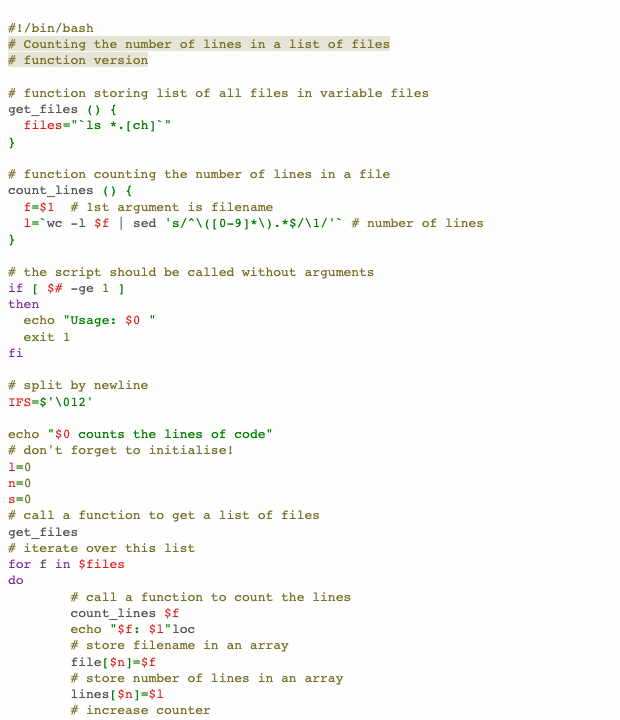
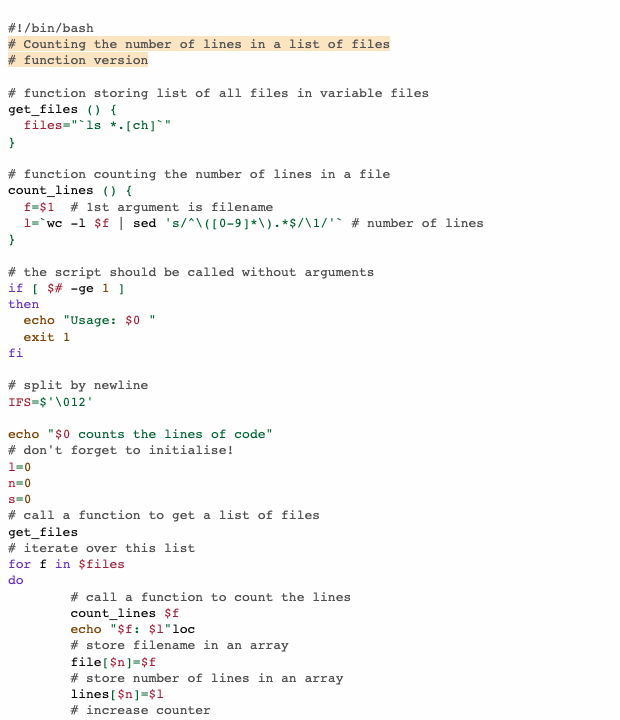
Fix contrast failures for high contrast light theme (#33)
Closes #30.

This PR updates the a11y-light and a11y-high-contrast-light themes. Increasing contrast, and trying to keep both colors similar.

diff --git a/a11y_pygments/a11y_high_contrast_light/style.py b/a11y_pygments/a11y_high_contrast_light/style.py
@@ -16,25 +16,25 @@ from pygments.token import (
 
 
 class Colors:
-    comment = "#797129"
-    red = "#d91e18"
-    orange = "#797129"
-    yellow = "#797129"
-    green = "#008000"
-    blue = "#007faa"
-    purple = "#7928a1"
-    black = "#545454"
+    comment = "#515151"
+    red = "#a12236"
+    orange = "#7f4707"
+    magenta = "#912583"
+    green = "#00622f"
+    blue = "#005b82"
+    purple = "#6730c5"
+    black = "#080808"
 
 
 class Theme(Style):
     """
-    This style mimics the a11 light theme from eric bailey's accessible themes.
+    This style mimics the a11y-light theme (but with more contrast) from eric bailey's accessible themes.
     """
 
     default_style = ""
 
     background_color = "#fefefe"
-    highlight_color = "#7971292e"
+    highlight_color = "#fae4c2"
 
     styles = {
         Text: Colors.black,  # class:  ''
@@ -52,7 +52,7 @@ class Theme(Style):
         Operator.Word: Colors.purple,  # class: 'ow'
         Punctuation: Colors.black,  # class: 'p'
         Name: Colors.black,  # class: 'n'
-        Name.Attribute: Colors.yellow,  # class: 'na'
+        Name.Attribute: Colors.magenta,  # class: 'na'
         Name.Builtin: Colors.orange,  # class: 'nb'
         Name.Builtin.Pseudo: Colors.orange,  # class: 'bp'
         Name.Class: Colors.blue,  # class: 'nc'

diff --git a/a11y_pygments/a11y_light/style.py b/a11y_pygments/a11y_light/style.py
@@ -16,25 +16,25 @@ from pygments.token import (
 
 
 class Colors:
-    comment = "#696969"
-    red = "#d91e18"
-    orange = "#aa5d00"
-    yellow = "#aa5d00"
-    green = "#008000"
-    blue = "#007faa"
-    purple = "#7928a1"
-    black = "#545454"
+    comment = "#515151"
+    red = "#d71835"
+    orange = "#7f4707"
+    yellow = "#7f4707"
+    green = "#116633"
+    blue = "#00749c"
+    purple = "#8045e5"
+    black = "#1e1e1e"
 
 
 class Theme(Style):
     """
-    This style mimics the a11 light theme from eric bailey's accessible themes.
+    This style inspired by the a11y-light theme from eric bailey's accessible themes.
     """
 
     default_style = ""
 
     background_color = "#fefefe"
-    highlight_color = "#7971292e"
+    highlight_color = "#fdf2e2"
 
     styles = {
         Text: Colors.black,  # class:  ''

diff --git a/a11y_pygments/a11y_high_contrast_light/README.md b/a11y_pygments/a11y_high_contrast_light/README.md
@@ -1,6 +1,6 @@
 # A11Y High Contrast Light
 
-This style mimics the a11 light theme from eric bailey's accessible themes.
+This style mimics the a11y-light theme (but with more contrast) from eric bailey's accessible themes.
 
 ![Screenshot of the a11y-high-contrast-light theme in a bash script](./images/a11y-high-contrast-light.png)
 
@@ -8,15 +8,17 @@ This style mimics the a11 light theme from eric bailey's accessible themes.
 
 Background color: ![#fefefe](https://via.placeholder.com/20/fefefe/fefefe.png) `#fefefe`
 
-Highlight color: ![#7971292e](https://via.placeholder.com/20/7971292e/7971292e.png) `#7971292e`
+Highlight color: ![#fae4c2](https://via.placeholder.com/20/fae4c2/fae4c2.png) `#fae4c2`
 
 **WCAG compliance**
 
-| Color                                                        | Hex       | Ratio   | Normal text | Large text |
-| ------------------------------------------------------------ | --------- | ------- | ----------- | ---------- |
-| ![#797129](https://via.placeholder.com/20/797129/797129.png) | `#797129` | 4.9 : 1 | AA          | AAA        |
-| ![#d91e18](https://via.placeholder.com/20/d91e18/d91e18.png) | `#d91e18` | 5.0 : 1 | AA          | AAA        |
-| ![#008000](https://via.placeholder.com/20/008000/008000.png) | `#008000` | 5.1 : 1 | AA          | AAA        |
-| ![#007faa](https://via.placeholder.com/20/007faa/007faa.png) | `#007faa` | 4.5 : 1 | AA          | AAA        |
-| ![#7928a1](https://via.placeholder.com/20/7928a1/7928a1.png) | `#7928a1` | 7.9 : 1 | AAA         | AAA        |
-| ![#545454](https://via.placeholder.com/20/545454/545454.png) | `#545454` | 7.5 : 1 | AAA         | AAA        |
+| Color                                                        | Hex       | Ratio    | Normal text | Large text |
+| ------------------------------------------------------------ | --------- | -------- | ----------- | ---------- |
+| ![#515151](https://via.placeholder.com/20/515151/515151.png) | `#515151` | 7.9 : 1  | AAA         | AAA        |
+| ![#a12236](https://via.placeholder.com/20/a12236/a12236.png) | `#a12236` | 7.4 : 1  | AAA         | AAA        |
+| ![#7f4707](https://via.placeholder.com/20/7f4707/7f4707.png) | `#7f4707` | 7.4 : 1  | AAA         | AAA        |
+| ![#912583](https://via.placeholder.com/20/912583/912583.png) | `#912583` | 7.4 : 1  | AAA         | AAA        |
+| ![#00622f](https://via.placeholder.com/20/00622f/00622f.png) | `#00622f` | 7.5 : 1  | AAA         | AAA        |
+| ![#005b82](https://via.placeholder.com/20/005b82/005b82.png) | `#005b82` | 7.4 : 1  | AAA         | AAA        |
+| ![#6730c5](https://via.placeholder.com/20/6730c5/6730c5.png) | `#6730c5` | 7.4 : 1  | AAA         | AAA        |
+| ![#080808](https://via.placeholder.com/20/080808/080808.png) | `#080808` | 19.9 : 1 | AAA         | AAA        |

diff --git a/a11y_pygments/a11y_light/README.md b/a11y_pygments/a11y_light/README.md
@@ -1,6 +1,6 @@
 # A11Y Light
 
-This style mimics the a11 light theme from eric bailey's accessible themes.
+This style inspired by the a11y-light theme from eric bailey's accessible themes.
 
 ![Screenshot of the a11y-light theme in a bash script](./images/a11y-light.png)
 
@@ -8,16 +8,16 @@ This style mimics the a11 light theme from eric bailey's accessible themes.
 
 Background color: ![#fefefe](https://via.placeholder.com/20/fefefe/fefefe.png) `#fefefe`
 
-Highlight color: ![#7971292e](https://via.placeholder.com/20/7971292e/7971292e.png) `#7971292e`
+Highlight color: ![#fdf2e2](https://via.placeholder.com/20/fdf2e2/fdf2e2.png) `#fdf2e2`
 
 **WCAG compliance**
 
-| Color                                                        | Hex       | Ratio   | Normal text | Large text |
-| ------------------------------------------------------------ | --------- | ------- | ----------- | ---------- |
-| ![#696969](https://via.placeholder.com/20/696969/696969.png) | `#696969` | 5.4 : 1 | AA          | AAA        |
-| ![#d91e18](https://via.placeholder.com/20/d91e18/d91e18.png) | `#d91e18` | 5.0 : 1 | AA          | AAA        |
-| ![#aa5d00](https://via.placeholder.com/20/aa5d00/aa5d00.png) | `#aa5d00` | 4.9 : 1 | AA          | AAA        |
-| ![#008000](https://via.placeholder.com/20/008000/008000.png) | `#008000` | 5.1 : 1 | AA          | AAA        |
-| ![#007faa](https://via.placeholder.com/20/007faa/007faa.png) | `#007faa` | 4.5 : 1 | AA          | AAA        |
-| ![#7928a1](https://via.placeholder.com/20/7928a1/7928a1.png) | `#7928a1` | 7.9 : 1 | AAA         | AAA        |
-| ![#545454](https://via.placeholder.com/20/545454/545454.png) | `#545454` | 7.5 : 1 | AAA         | AAA        |
+| Color                                                        | Hex       | Ratio    | Normal text | Large text |
+| ------------------------------------------------------------ | --------- | -------- | ----------- | ---------- |
+| ![#515151](https://via.placeholder.com/20/515151/515151.png) | `#515151` | 7.9 : 1  | AAA         | AAA        |
+| ![#d71835](https://via.placeholder.com/20/d71835/d71835.png) | `#d71835` | 5.1 : 1  | AA          | AAA        |
+| ![#7f4707](https://via.placeholder.com/20/7f4707/7f4707.png) | `#7f4707` | 7.4 : 1  | AAA         | AAA        |
+| ![#116633](https://via.placeholder.com/20/116633/116633.png) | `#116633` | 7.0 : 1  | AAA         | AAA        |
+| ![#00749c](https://via.placeholder.com/20/00749c/00749c.png) | `#00749c` | 5.2 : 1  | AA          | AAA        |
+| ![#8045e5](https://via.placeholder.com/20/8045e5/8045e5.png) | `#8045e5` | 5.3 : 1  | AA          | AAA        |
+| ![#1e1e1e](https://via.placeholder.com/20/1e1e1e/1e1e1e.png) | `#1e1e1e` | 16.5 : 1 | AAA         | AAA        |
